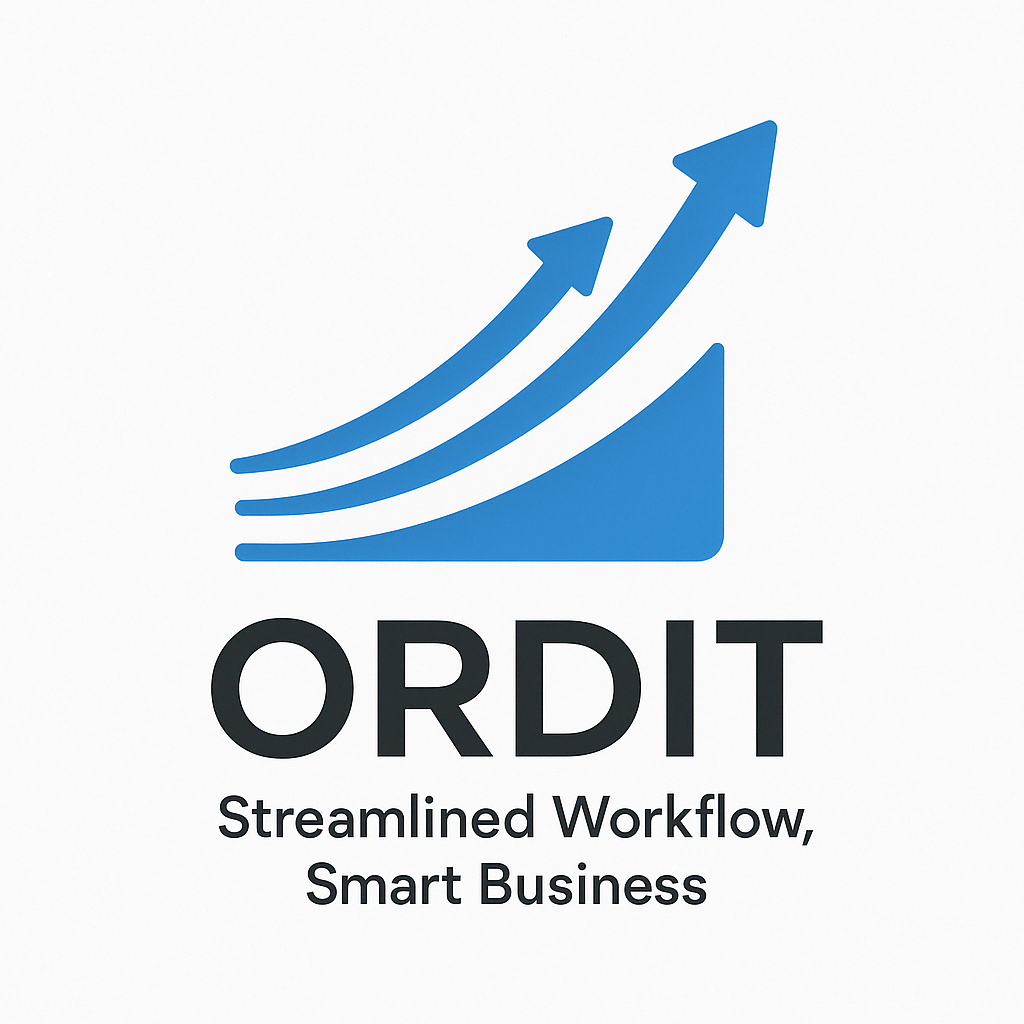
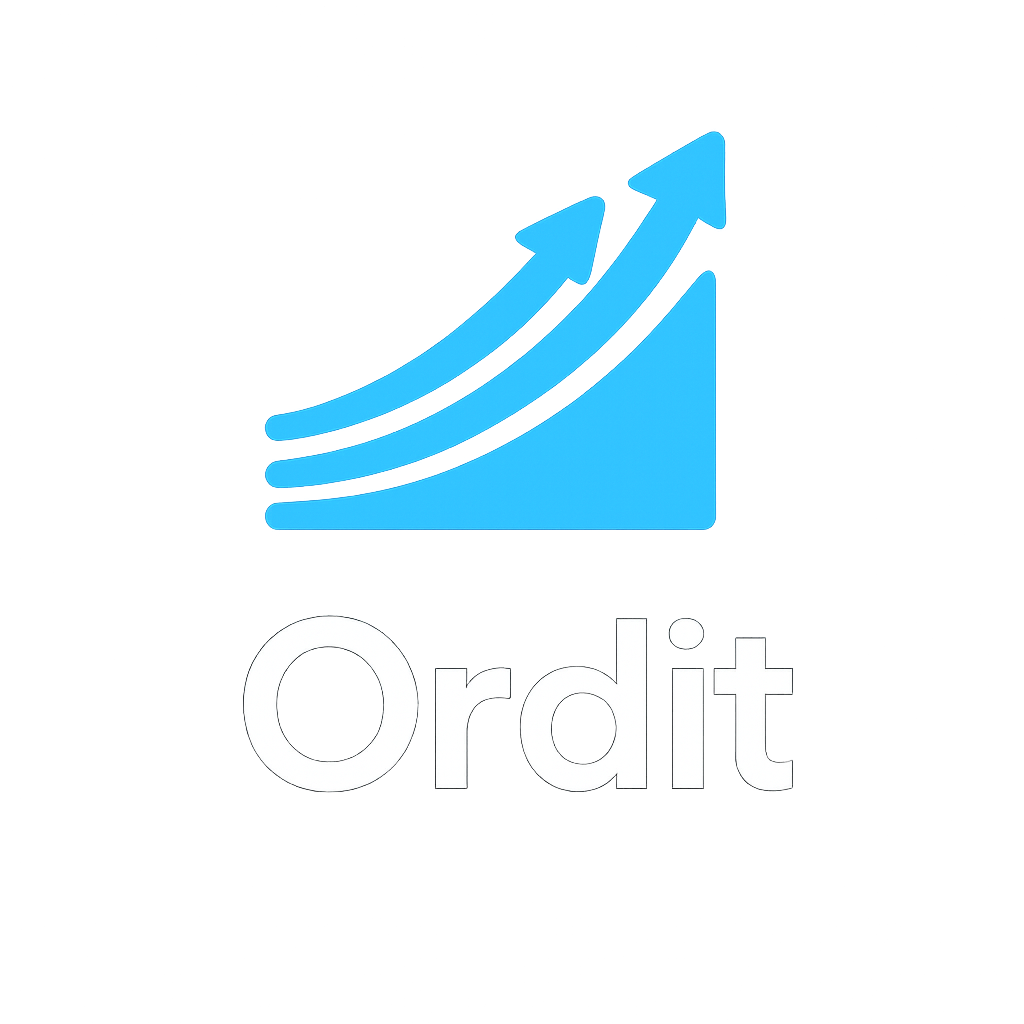
[fix] ui modified.

Changed region(s): [[0.2188, 0.125, 0.7812, 0.5625], [0.1875, 0.5938, 0.8125, 0.9062]]

diff --git a/src/main/react/app/components/common/HeaderMenu.jsx b/src/main/react/app/components/common/HeaderMenu.jsx
@@ -1,13 +1,11 @@
 /* eslint-disable react/react-in-jsx-scope */
 /* eslint-disable react/prop-types */
+import brand from "#images/common/brand.png";
 import mainIcon from "#images/common/main.png";
-import settingIcon from "#images/common/setting.png";
 import logout from "#images/common/logout.png";
 import arrow from "#images/common/arrow.png";
 
 import AppConfig from "#config/AppConfig.json"
-
-import "#components/common/css/common.css";
 
 import { useState, useEffect } from "react";
 import { useLocation, useNavigate } from "@remix-run/react";
@@ -91,9 +89,9 @@ const HeaderMenu = () => {
 
 	return (
 		<Header>
-			<Navbar style={{ fontSize: "large" }} appearance="inverse">
+			<Navbar style={{ fontSize: "large", backgroundColor: "#22284C" }}>
 				<Nav>
-					{/* <Nav.Item icon={<ToImage src={mainIcon} fbText="Main" width={32} height={32} />} /> */}
+					<Nav.Item style={{padding: 0}} icon={<ToImage style={{margin: 0}} src={brand} fbText="Logo" width={60} height={60} />} />
 					<Nav.Menu title="관리운영">
 						<Nav.Item onSelect={() => { navigate("hr_emp_card") }}>인사관리</Nav.Item>
 						<Nav.Item onSelect={() => { navigate("basic_client") }}>거래처등록</Nav.Item>

diff --git a/src/main/react/app/routes/main.jsx b/src/main/react/app/routes/main.jsx
@@ -5,9 +5,7 @@ import { Container, Content } from "rsuite";
 
 import AppConfig from "#config/AppConfig.json"
 
-import SideMenu from "#components/common/SideMenu";
 import HeaderMenu from "#components/common/HeaderMenu"
-import SideMenu_hr from "#components/hr/SideMenu_hr";
 import Chatbot from '#components/chatbot/chatbot';
 
 // @Remix:모듈함수 - <html>의 <head>의 내용
@@ -55,9 +53,7 @@ export default function Main() {
 	}, []);
 
 	return (
-		<Container>
-
-			<SideMenu />
+		<Container style={{display: "block", width: "1920px", margin: "0 auto"}}>
 
 			<Container>
 				<HeaderMenu />

diff --git a/src/main/react/app/root.jsx b/src/main/react/app/root.jsx
@@ -1,6 +1,7 @@
 /* eslint-disable react/react-in-jsx-scope */
 /* eslint-disable react/prop-types */
 import "rsuite/dist/rsuite.min.css";
+import "#styles/common.css";
 
 import {
 	Links,
